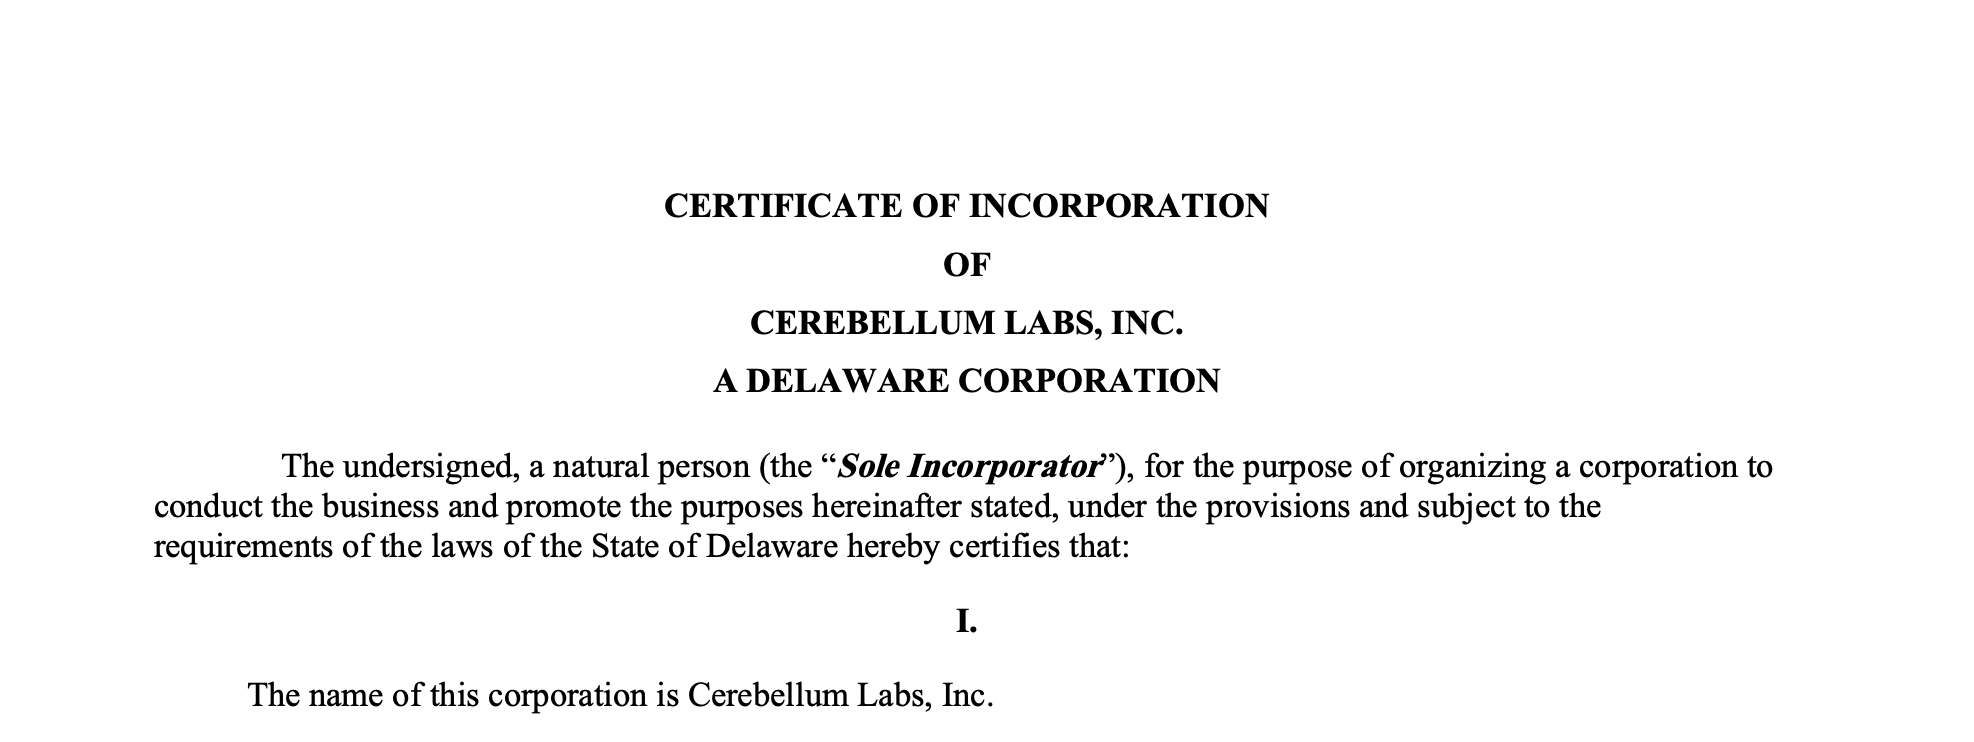
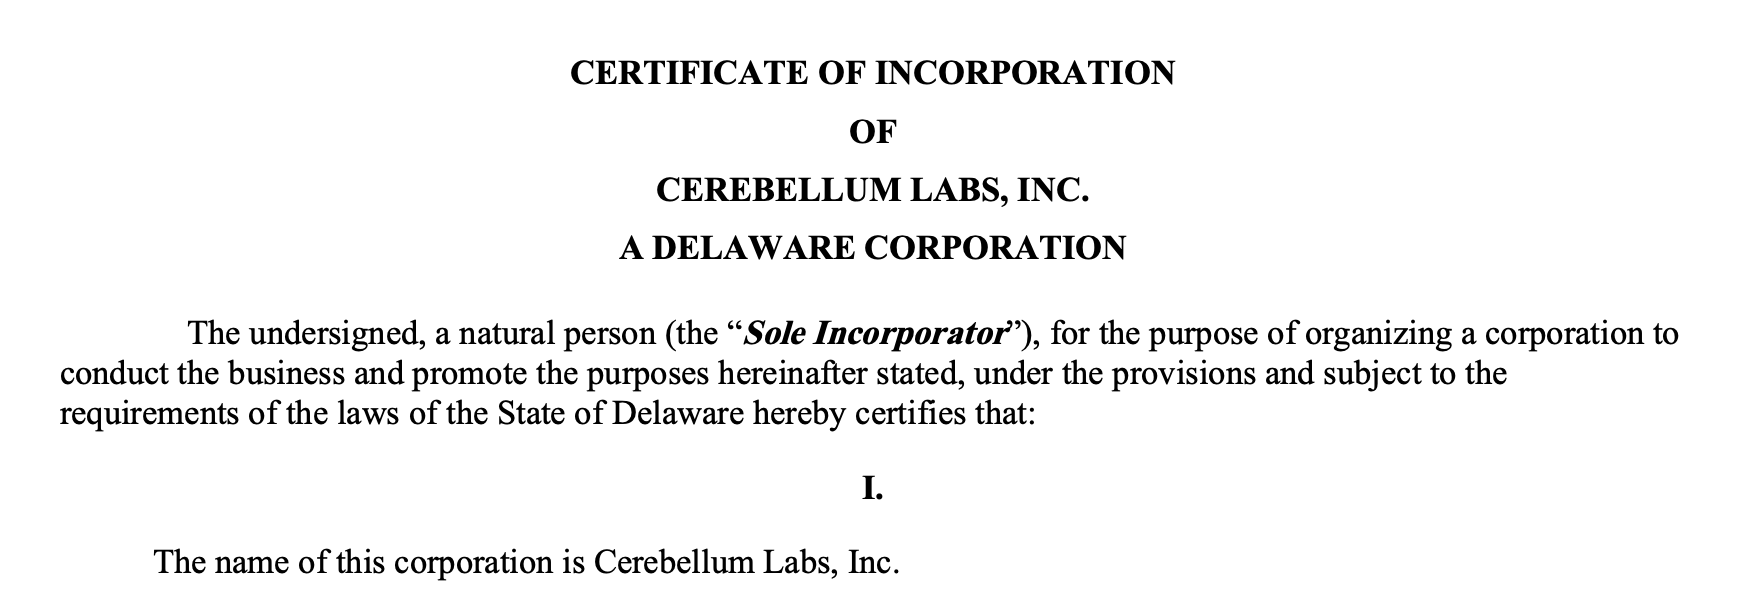
Show the incorporation certificate as a wide polaroid; caption edits
Claude-Session: https://claude.ai/code/session_01J2y1w9YxkNQruASRg936uC

diff --git a/src/styles/global.css b/src/styles/global.css
@@ -466,6 +466,16 @@ html:has(.newsletter-page) {
   }
 }
 
+.newsletter-prose .polaroid.polaroid-wide {
+  flex-basis: 100%;
+  max-width: 32rem;
+  margin-top: 0;
+
+  & img {
+    aspect-ratio: auto;
+  }
+}
+
 @media (prefers-reduced-motion: reduce) {
   .newsletter-prose .polaroid {
     transition: none;
